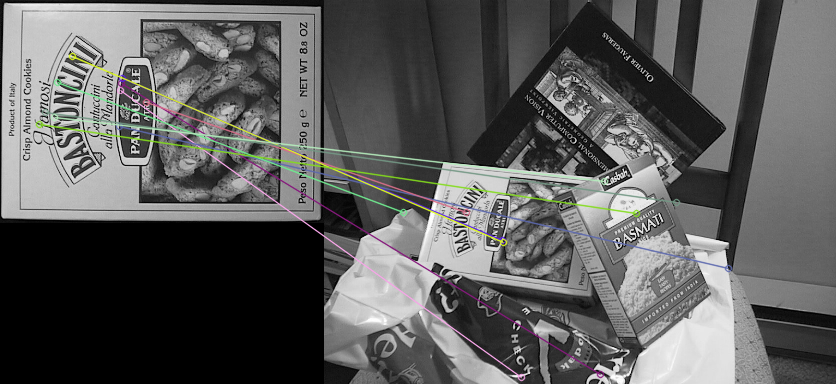
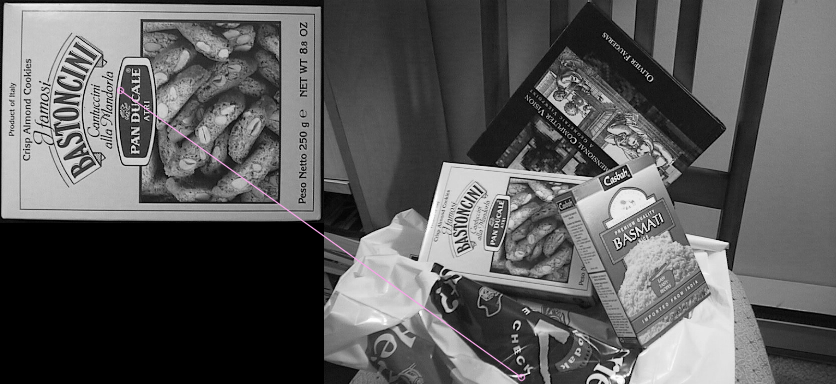
set so there only are 1 lisrt of features

diff --git a/rbrief.py b/rbrief.py
@@ -11,23 +11,22 @@ def rbrief(features, grey_pyramid):
     """Re-implementation of rBRIEF for use in ORB
     """
     
-    descriptors = np.empty((len(features), len(features[0]), 32), 'uint8')
+    descriptors = np.empty((len(features), 32), 'uint8')
 
-    for L_idx, layer in enumerate(features):
-        scale = 1/(L_idx+1)
 
-        for K_idx, keypoint in enumerate(layer):
-            # Center is a (y,x) point for use with the image array
-            i_center = grey_pyramid[L_idx][int(keypoint.pt[1] * scale), int(keypoint.pt[0] * scale)]
-            theta_trig = (math.cos(keypoint.angle), math.sin(keypoint.angle))
+    for K_idx, keypoint in enumerate(features):
+        scale = 1.0/(keypoint.octave+1)
+        # Center is a (y,x) point for use with the image array
+        i_center = grey_pyramid[keypoint.octave][int(keypoint.pt[1] * scale), int(keypoint.pt[0] * scale)]
+        theta_trig = (math.cos(keypoint.angle), math.sin(keypoint.angle))
 
-            val = 0
+        val = 0
 
-            for byte in range(32):
-                for bit in range(8):
-                    val |= (get_value(bit*byte, 0, theta_trig, i_center) < get_value(bit*byte, 1, theta_trig, i_center)) << bit
-                
-                descriptors[L_idx][K_idx][byte] = val
+        for byte in range(32):
+            for bit in range(8):
+                val |= (get_value(bit*byte, 0, theta_trig, i_center) < get_value(bit*byte, 1, theta_trig, i_center)) << bit
+            
+            descriptors[K_idx][byte] = val
 
     return descriptors
 
@@ -40,23 +39,3 @@ def get_value(test, point, theta_trig, i_center):
     iy = round(p_x * theta_trig[1] + p_y * theta_trig[0])
 
     return i_center + iy + ix
-
-
-def toOpenCVMatch(descriptors, size):
-    """Will convert the feature descriptors of *size* bits in a layer to an array of bytes
-    to work with OpenCVs matching functions
-
-    Args:
-        descriptors (int): an integer representation of a bitstring
-        size (int): Size of the descriptors in bytes
-    """
-
-    out = np.empty((len(features),32), 'uint8')
-
-    for idx, feature in enumerate(features):
-        x = feature.class_id
-        for i in range(size-1, -1, -1):
-            out[idx][i] = (x & 0xFF)
-            x = x >> 8
-    
-    return out

diff --git a/ofast.py b/ofast.py
@@ -59,7 +59,7 @@ def ICAngles(image, keypoints, half_patch_size, u_max):
                 m_10 = m_10 + u * (val_plus + val_minus)
             m_01 = m_01 + v * v_sum
         
-        keypoints[ptidx].angle = math.degrees(math.atan2(float(m_01), float(m_10)))
+        keypoints[ptidx].angle = math.atan2(float(m_01), float(m_10))
 
 def retain_best(keypoints, n_point):
     keypoints.sort(key=lambda kp: kp.response)
@@ -87,18 +87,21 @@ def ofast(image, n_point = 10):
         harris = cv.cornerHarris(img_level, 2, 3, 0.04)
 
         kp_position = cv.KeyPoint_convert(kp)
+        u_max = umax(3)
+        ICAngles(img_level, kp, 3, u_max)
         for position in range(len(kp_position)):
 
             kp[position].response = harris.item((int(kp_position[position,1]), int(kp_position[position,0])))
             kp[position].octave = py_level
+            kp[position].pt = (kp_position[position,0] * (py_level+1), kp_position[position,1] * (py_level+1))
 
-        u_max = umax(3)
-        ICAngles(img_level, kp, 3, u_max)
         kp = retain_best(kp, n_point)
 
-        py_kp.append(kp)        
-        py_level = py_level + 1
+        py_kp += kp        
+        py_level += 1
     
+    py_kp = retain_best(py_kp, n_point)
+
     return py_kp, py_images
     
 

diff --git a/orb.py b/orb.py
@@ -8,7 +8,7 @@ from rbrief import rbrief
 features, pyramid = ofast('box.png', 500)
 features2, pyramid2 = ofast('box_in_scene.png', 500)
 
-ofast_img = cv.drawKeypoints(pyramid[0], features[0], None, color=(255,0,0))
+ofast_img = cv.drawKeypoints(pyramid[0], features, None, color=(255,0,0))
 #cv.imshow('oFAST', ofast_img)
 cv.imwrite('test.png', ofast_img)
 
@@ -20,6 +20,6 @@ bf = cv.BFMatcher(cv.NORM_HAMMING, crossCheck=True)
 matches = bf.match(des1[0], des2[0])
 matches = sorted(matches, key = lambda x:x.distance)
 
-match_img = cv.drawMatches(pyramid[0],features[0],pyramid2[0],features2[0],matches[:10],None,flags=cv.DrawMatchesFlags_NOT_DRAW_SINGLE_POINTS)
+match_img = cv.drawMatches(pyramid[0],features,pyramid2[0],features2,matches[:10],None,flags=cv.DrawMatchesFlags_NOT_DRAW_SINGLE_POINTS)
 
 cv.imwrite("matches.png", match_img)
